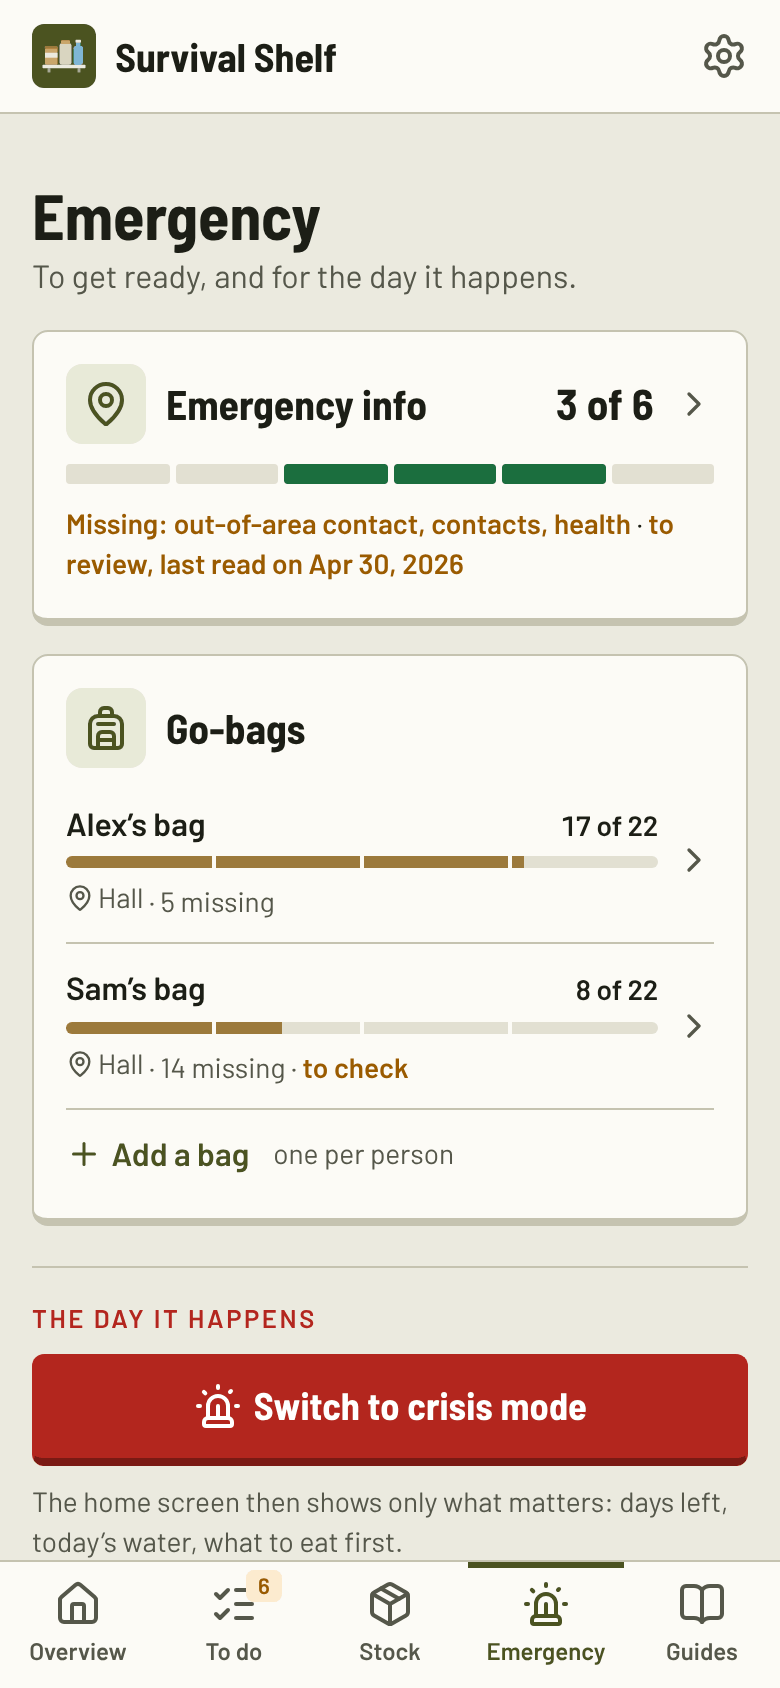
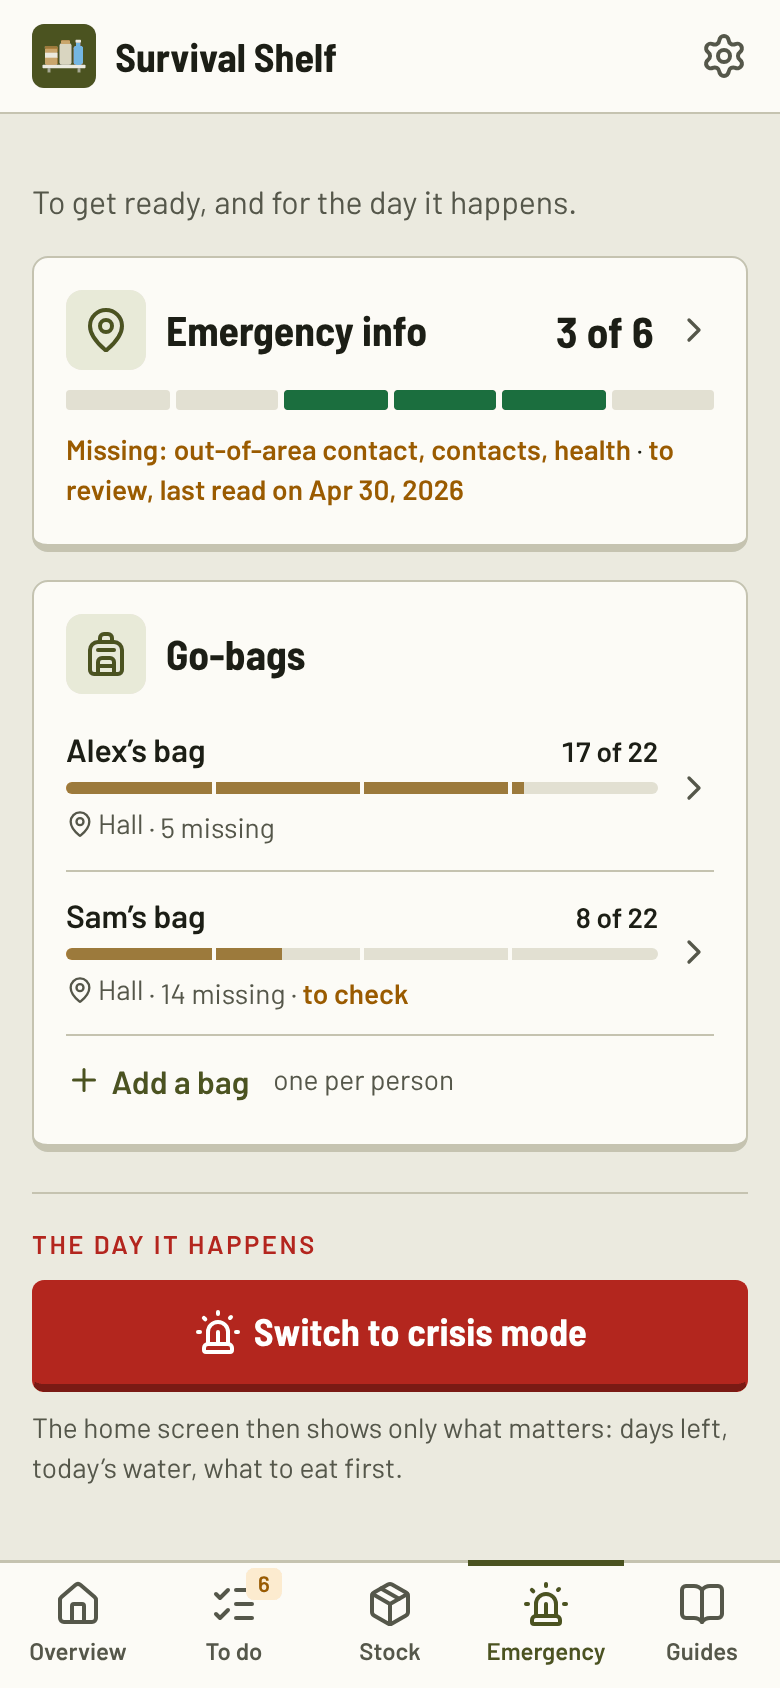
Drop the page titles that repeat the tab, and the doubled line on the open tab (#36)
* Drop the page titles that repeat the tab, and the doubled line on the open tab

The open tab already names the page, so the titles of the to-do list, the Emergency tab, the guides
and each part of the stock are now read by screen readers only, and the head of these pages is one
line of facts centered on their buttons. Subpages keep their title: emergency info, go-bags, an open
guide and the settings.

The open tab drew its olive bar under a gray line. On computers and tablets the bar is now the top
border of the tab itself; on phones it covers the border line of the bottom bar.

Claude-Session: https://claude.ai/code/session_01VbHUrYp9VLxDxTrnGXTaAg

* Take the README screenshots again without the repeated titles

The to-do list, the stock, the Emergency tab and the guides no longer show a title under the tab,
and the open tab lost its doubled line: the screenshots follow.

Claude-Session: https://claude.ai/code/session_01VbHUrYp9VLxDxTrnGXTaAg

* Keep the open tab's lines flush with the header and bar lines

Browsers round a 1.5px border to whole pixels, while a -1.5px margin or a
1.5px shadow offset is not rounded, so the open tab's sides went past the
header line by half a pixel and stuck out under its corners.

On desktop the open tab now ends on top of the header line and a cover
taller than any rounding hides the line between its sides. On phones the
bar's top line is an inset shadow from the same edge as the open tab's
olive bar, which covers it exactly.
[…]

Changed region(s): [[0.0308, 0.0924, 0.9538, 0.6469], [0.0308, 0.6777, 0.9846, 0.955], [0.4308, 0.0924, 0.4615, 0.1232]]

diff --git a/app/src/App.svelte b/app/src/App.svelte
@@ -290,7 +290,9 @@
     height: calc(var(--nav-height) + var(--safe-bottom));
     padding: 0 env(safe-area-inset-right, 0px) var(--safe-bottom) env(safe-area-inset-left, 0px);
     background: var(--surface);
-    border-top: 1.5px solid var(--border);
+    /* The top line is drawn inside the bar, from the same edge as the open tab's bar, which covers it
+       exactly: a border would be rounded by the browser and leave the bar sticking out above it. */
+    box-shadow: inset 0 1.5px 0 var(--border);
   }
 
   .tab {
@@ -314,7 +316,7 @@
     white-space: nowrap;
   }
 
-  /* Active tab: a solid bar on the top edge. */
+  /* Active tab: a solid bar on the top edge, over the bar's top line. */
   .tab[aria-current='page'] {
     color: var(--primary);
     box-shadow: inset 0 3px 0 var(--primary);
@@ -378,10 +380,9 @@
       /* Labels shorten rather than push the gear off the screen. */
       min-width: 0;
       height: auto;
-      margin-bottom: -1.5px;
       padding: 0;
       background: none;
-      border: none;
+      box-shadow: none;
     }
 
     .tab {
@@ -405,10 +406,26 @@
       color: var(--text);
     }
 
+    /* The olive bar is the top border itself: no gray line above it. */
     .tab[aria-current='page'] {
       background: var(--bg);
       border-color: var(--border);
+      border-top: 3px solid var(--primary);
+      box-shadow: none;
       color: var(--text);
+    }
+
+    /* The open tab joins the page: between its sides, it hides the header line under it. The tab ends
+       on top of that line instead of overlapping it, so its sides stop exactly where the line starts,
+       and the cover is taller than the line since browsers round a 1.5px border to 1 or 2 pixels. */
+    .tab[aria-current='page']::after {
+      content: '';
+      position: absolute;
+      left: 0;
+      right: 0;
+      bottom: -2px;
+      height: 2px;
+      background: var(--bg);
     }
 
     .tab[aria-current='page'] :global(svg) {

diff --git a/app/src/views/Stock.svelte b/app/src/views/Stock.svelte
@@ -285,7 +285,7 @@
 
   <header class="page-head">
     <div class="title">
-      <h1>{kindLabel(kind)}</h1>
+      <h1 class="visually-hidden">{kindLabel(kind)}</h1>
       <p class="muted">
         {#if kind === 'gear' && app.gear.total > 0}{tn('kind.gearCount', app.gear.ready, { total: app.gear.total })} ·{/if}
         {tn('stock.summary', scope.length, { lots: lotCount })}
@@ -486,7 +486,7 @@
   .page-head {
     display: flex;
     flex-wrap: wrap;
-    align-items: flex-end;
+    align-items: center;
     justify-content: space-between;
     gap: 0.5rem 1rem;
   }
@@ -496,7 +496,7 @@
     min-width: 0;
   }
 
-  /* Stays on the right, also when a long title pushes it to its own line. */
+  /* Stays on the right, also when a long summary pushes it to its own line. */
   .page-head > .row {
     flex: none;
     margin-left: auto;

diff --git a/app/src/views/CheckIn.svelte b/app/src/views/CheckIn.svelte
@@ -141,7 +141,7 @@
 <div class="stack">
   <header class="page-head">
     <div>
-      <h1>{t('checkin.title')}</h1>
+      <h1 class="visually-hidden">{t('checkin.title')}</h1>
       <p class="muted">{count > 0 ? tn('checkin.count', count) : t('checkin.nothing')}</p>
     </div>
     {#if count > 0}

diff --git a/app/src/app.css b/app/src/app.css
@@ -607,9 +607,10 @@ textarea {
   font-weight: 700;
 }
 
+/* The tab names the page: its head is one line of facts, centered on the page's buttons. */
 .page-head {
   display: flex;
-  align-items: flex-end;
+  align-items: center;
   justify-content: space-between;
   gap: 1rem;
 }

diff --git a/app/src/views/Emergency.svelte b/app/src/views/Emergency.svelte
@@ -26,7 +26,7 @@
   <div class="stack">
     <header class="page-head">
       <div>
-        <h1>{t('emergency.title')}</h1>
+        <h1 class="visually-hidden">{t('emergency.title')}</h1>
         <p class="muted">{t('emergency.subtitle')}</p>
       </div>
     </header>

diff --git a/app/src/views/Guides.svelte b/app/src/views/Guides.svelte
@@ -118,7 +118,7 @@
 {:else}
   <div class="stack">
     <header>
-      <h1>{t('guides.title')}</h1>
+      <h1 class="visually-hidden">{t('guides.title')}</h1>
       <p class="muted">{t('guides.intro')}</p>
     </header>
 
